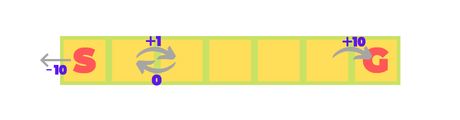
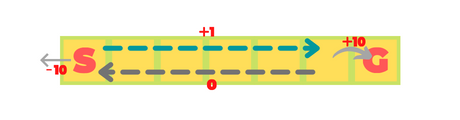
A new article on q-learning
Uploaded the article and some images required. Removed author in
`_config.yml`.

diff --git a/docs/_posts/2021-12-18-slider.md b/docs/_posts/2021-12-18-slider.md
@@ -5,9 +5,7 @@ categories: reinforcement-learning
 author: Coder-RG
 ---
 
-This is the first article under Reinforcement Learning. Today, we will look at
-[Slider], a simple example for understanding [Q-learning](https://en.wikipedia.org/wiki/Q-learning).
-Hopefully, you will have a clear understanding after reading this article.
+Today, we will look at a simple example for understanding [Q-learning](https://en.wikipedia.org/wiki/Q-learning). Hopefully, you will have a clear understanding after reading this article.
 
 ## Environment
 
@@ -16,21 +14,19 @@ Hopefully, you will have a clear understanding after reading this article.
 {: refdef}
 
 Our environment is a 1x7 grid. **S** is the Start state and **G** is the goal state.
-The agent can only move left or right. When the agent arrives at **G** the game ends.
+The agent can only move **left** or **right**. The game ends when the agent arrives at **G**.
 
 {:refdef: style="text-align: center;"}
 ![Slider_env]({{site.baseurl}}/assets/images/env_reward.png)
 {: refdef}
 
-*Rewards*
-- +1 for moving towards *G*
-- -10 on illegal step, i.e moving out of the grid
-- +10 on reaching *G*
+The rewards are as follows: `+1` on each step towards **G**, `-10` on illegal step
+(i.e. moving out of the grid)and finally `+10` on reaching **G**.
 
 
-## Coding
+## Code the agent
 ```python
-def run_exp(num_iterations=100):
+def agent(num_iterations=100):
     game = Slider()
     reward_graph = []
     episode_graph = []
@@ -59,7 +55,26 @@ def run_exp(num_iterations=100):
 
 ## Result
 
-### Q-table
+![Result Graph]({{site.baseurl}}/assets/images/slider_graph.png)
+
+Those sudden spikes are due to [exploration vs exploitation tradeoff](https://www.baeldung.com/cs/epsilon-greedy-q-learning#1-exploration-vs-exploitation-tradeoff). Simply put, it explores
+the environment looking for the best action to take at each time step. This does mean that our
+agent sometimes selects a bad action. However, this is how our agent learns.
+
+### Policy and Q-table
+Below is the policy for our trained model.
+
+{:refdef: style:"text-align: center;"}
+![Policy]({{site.baseurl}}/assets/images/slider_policy.png)
+{:refdef}
+
+**Note:** for the Goal state, the policy prefers `->` even though the episode
+restarts when the agent reaches the Goal State. This is down to how the Q-table
+was initialised and how the policy was chosen.
+
+This is the Q-table after training. Q-table was initialised with zeros rather
+than randomly. Why don't you try to implement different things(like random initialization)?
+This will certainly help in better understanding.
 
 |State|<-|->|
 |:---:|:----:|:----:|
@@ -71,8 +86,6 @@ def run_exp(num_iterations=100):
 |5|0.18|6.34|
 |6|0.00|0.00|
 
-### Policy
-
-### Graphs
-
-![slider_graph]({{site.baseurl}}/assets/images/slider_graph.png)
+Fortunately, this is the end of this article. You don't have to tolerate me anymore.
+The code is available on [Github](https://github.com/Coder-RG/blog-content/tree/master/slider).
+Tinker with the code and watch your agent learn.
